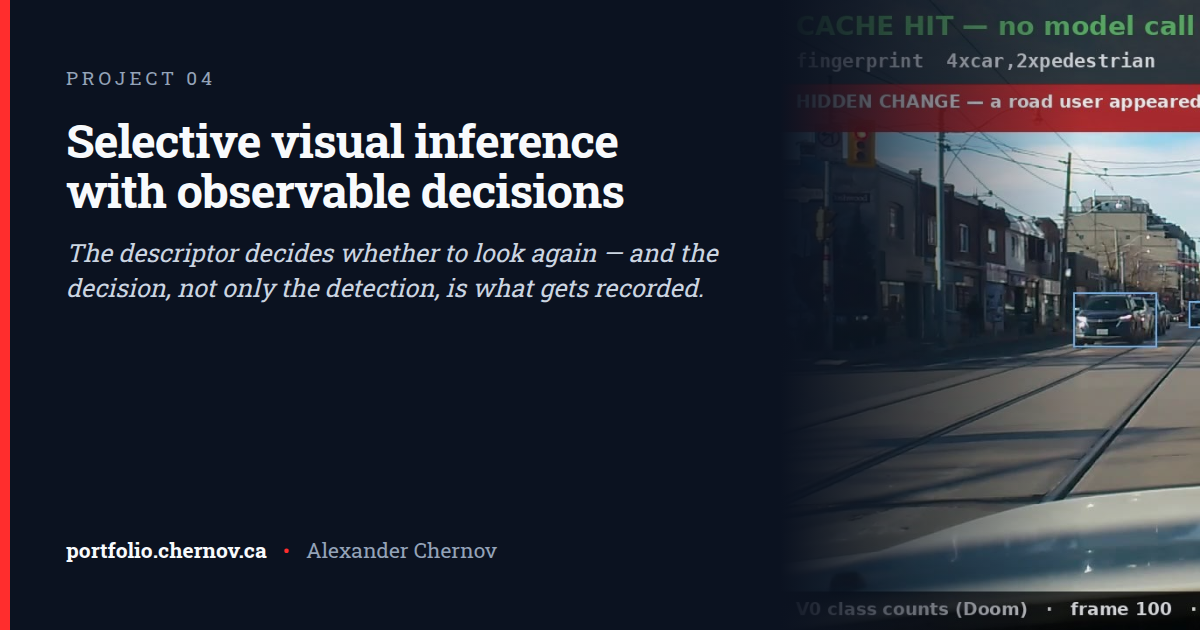
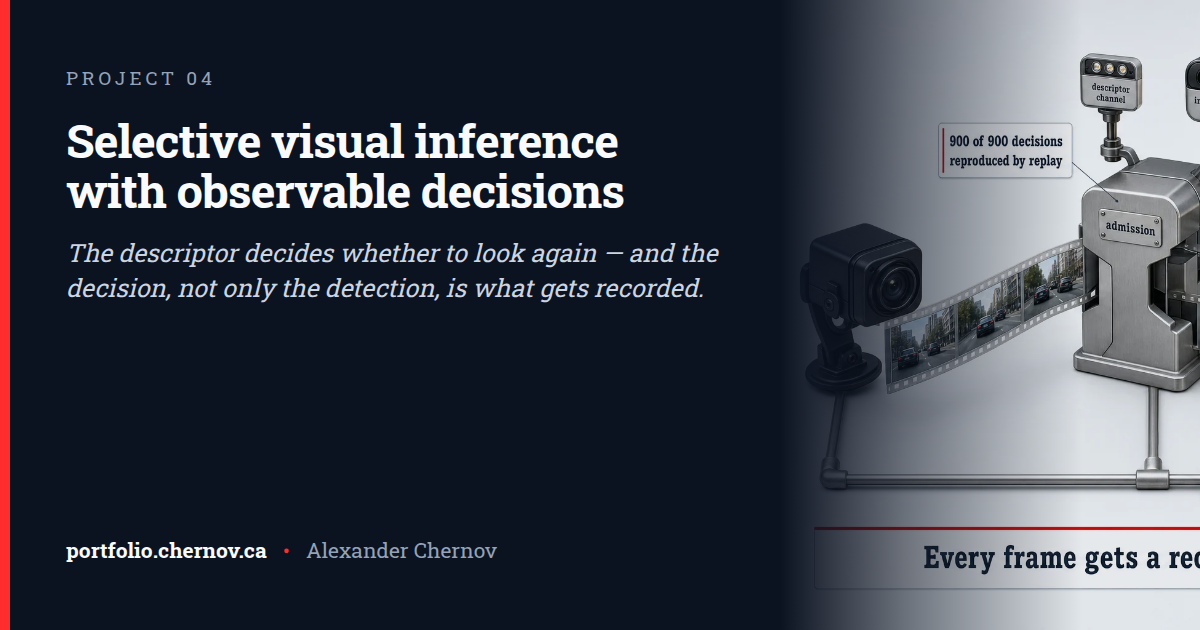
Selective visual inference: real drives on two cars, and the live stack
The entry now carries the comma2k19 result (84 complete drives of two cars:
a content-triggered refresh hides 2.01 points fewer scene changes than a
timer at equal reuse, 3.27 on the held-out chunk) and the live ROS 2 / VSS
stack with what was checked on it. New figure: a rendered illustration of the
stack (gen_agentic_vision.py; one misspelled generated label replaced with
set type by fix_agentic_vision_chip.py). References add comma2k19 and
RT-DETR, both checked against arXiv and Crossref.

Changed region(s): [[0.6783, 0.0, 1.0, 1.0]]

diff --git a/docs/p/selective-visual-inference.html b/docs/p/selective-visual-inference.html
@@ -4,13 +4,13 @@
 <meta charset="utf-8">
 <meta name="viewport" content="width=device-width, initial-scale=1, viewport-fit=cover">
 <title>Selective visual inference with observable decisions — Alexander Chernov</title>
-<meta name="description" content="1,712 consecutive frames of road footage, five per second. Skipping 43.6% of model calls left 28.5% of real scene changes stale; a richer descriptor cut that to 9.1% and bought fewer skips in exchange. A separate detector checks the result, so the thing being measured is not also the judge.">
+<meta name="description" content="Real drives from two cars, 236,130 frames: a content-triggered refresh hid 2.01 points fewer scene changes than a timer at the same share of skipped model calls. The decision layer now also runs live on ROS 2 and the Vehicle Signal Specification, and a recorded live run replays to the same decision ">
 <link rel="canonical" href="https://portfolio.chernov.ca/p/selective-visual-inference.html">
 <link rel="icon" type="image/x-icon" href="../favicon.ico">
 <meta property="og:type" content="article">
 <meta property="og:site_name" content="Alexander Chernov — Portfolio">
 <meta property="og:title" content="Selective visual inference with observable decisions — Alexander Chernov">
-<meta property="og:description" content="1,712 consecutive frames of road footage, five per second. Skipping 43.6% of model calls left 28.5% of real scene changes stale; a richer descriptor cut that to 9.1% and bought fewer skips in exchange. A separate detector checks the result, so the thing being measured is not also the judge.">
+<meta property="og:description" content="Real drives from two cars, 236,130 frames: a content-triggered refresh hid 2.01 points fewer scene changes than a timer at the same share of skipped model calls. The decision layer now also runs live on ROS 2 and the Vehicle Signal Specification, and a recorded live run replays to the same decision ">
 <meta property="og:url" content="https://portfolio.chernov.ca/p/selective-visual-inference.html">
 <meta property="og:image" content="https://portfolio.chernov.ca/og/selective-visual-inference.png">
 <meta property="og:image:width" content="1200">
@@ -18,7 +18,7 @@
 <meta property="og:image:alt" content="Selective visual inference with observable decisions — Alexander Chernov">
 <meta name="twitter:card" content="summary_large_image">
 <meta name="twitter:title" content="Selective visual inference with observable decisions — Alexander Chernov">
-<meta name="twitter:description" content="1,712 consecutive frames of road footage, five per second. Skipping 43.6% of model calls left 28.5% of real scene changes stale; a richer descriptor cut that to 9.1% and bought fewer skips in exchange. A separate detector checks the result, so the thing being measured is not also the judge.">
+<meta name="twitter:description" content="Real drives from two cars, 236,130 frames: a content-triggered refresh hid 2.01 points fewer scene changes than a timer at the same share of skipped model calls. The decision layer now also runs live on ROS 2 and the Vehicle Signal Specification, and a recorded live run replays to the same decision ">
 <meta name="twitter:image" content="https://portfolio.chernov.ca/og/selective-visual-inference.png">
 <script>
 (function(){try{var t=localStorage.getItem('pf-theme');
@@ -202,21 +202,23 @@ footer.bottom p{margin:0 0 .5rem}
 <span class="num">04</span>
 <div class="project-title">
 <h1>Selective visual inference with observable decisions</h1>
-<p class="meta">2025 – present · Independent project, unaffiliated with any employer.</p>
+<p class="meta">2025 – present · Independent research, unaffiliated with any employer.</p>
 </div>
 <button class="copy" type="button" data-copy="../p/selective-visual-inference.html" aria-label="Copy link to Selective visual inference with observable decisions" title="Copy link to Selective visual inference with observable decisions"><span class="copy-icon" aria-hidden="true">#</span><span class="copy-text">Copy link</span></button>
 </div>
 <p class="lede">The descriptor decides whether to look again — and the decision, not only the detection, is what gets recorded.</p>
-<p class="summary">1,712 consecutive frames of road footage, five per second. Skipping 43.6% of model calls left 28.5% of real scene changes stale; a richer descriptor cut that to 9.1% and bought fewer skips in exchange. A separate detector checks the result, so the thing being measured is not also the judge.</p>
-<figure><img src="../img/project-agentic-vision.jpg" alt="The measurement&#x27;s own overlay on a frame of road footage: the descriptor matched, the previous interpretation was reused, no model was called — while the scene developed around a road user at the kerb." loading="lazy" decoding="async">
-<figcaption>The measurement's own overlay on a frame of road footage: the descriptor matched, the previous interpretation was reused, no model was called — while the scene developed around a road user at the kerb.</figcaption>
+<p class="summary">Real drives from two cars, 236,130 frames: a content-triggered refresh hid 2.01 points fewer scene changes than a timer at the same share of skipped model calls. The decision layer now also runs live on ROS 2 and the Vehicle Signal Specification, and a recorded live run replays to the same decision on every frame.</p>
+<figure><img src="../img/project-agentic-vision-stack.webp" alt="The live stack as built, drawn as objects: frames arrive over ROS 2, an admission layer decides for each one whether the gated model runs or an earlier result is reused, an independent detector watches alongside, and every decision goes to a ledger and to a read-only VSS overlay. The three figures on the illustration are measured." loading="lazy" decoding="async">
+<figcaption>The live stack as built, drawn as objects: frames arrive over ROS 2, an admission layer decides for each one whether the gated model runs or an earlier result is reused, an independent detector watches alongside, and every decision goes to a ledger and to a read-only VSS overlay. The three figures on the illustration are measured.</figcaption>
 </figure>
 <p>Vision models are normally run on every frame. That is the safe default and an expensive one. The narrower question is whether a cheap scene descriptor can decide when the previous interpretation still holds, and whether the cost of being wrong about that can be measured rather than assumed.</p>
-<p>Across 1,712 contiguous dashcam frames at 5 Hz, a class-count descriptor skipped 43.6% of candidate model calls and left 28.5% of material scene changes without refreshed perception. Adding spatial and scale information brought the second figure to 9.1%, and cost reuse to do it. The result worth reporting is not a single optimum but that the tradeoff is measurable, which turns scene representation into an explicit engineering parameter rather than an implementation detail.</p>
+<p>The first measurement: across 1,712 contiguous dashcam frames at 5 Hz, a class-count descriptor skipped 43.6% of candidate model calls and left 28.5% of material scene changes without refreshed perception. Adding spatial and scale information brought the second figure to 9.1%, and cost reuse to do it. The result worth reporting is not a single optimum but that the tradeoff is measurable, which turns scene representation into an explicit engineering parameter rather than an implementation detail.</p>
 <p>A second, independent detector evaluates the same frames, so the measurement does not rest on the detector that also defines the state being evaluated. The two disagreed about the presence of vulnerable road users on 9.5% of frames. Neither is ground truth — both are detectors — so that figure is disagreement, not an error rate, and it is reported as such.</p>
-<p>Stated on the site rather than left to be discovered: no vision model is invoked in the measurement itself. The replay determines when a call would occur and what deferring it costs. Nothing here has been validated for use in a vehicle.</p>
+<p>The same measurement then ran at scale on comma2k19, a public set of commuting drives: 94 drives of two cars at 5 Hz, graded by the independent detector. On the 84 drives with complete recordings, refreshing when the content warranted it hid 2.01 percentage points fewer material changes than refreshing on a timer at an equal rate of reuse (95% interval 1.31 to 2.70, resampling whole drives within each car). The analysis was fixed in writing before the last chunk's results existed; on that held-out chunk alone the difference was 3.27 points. The earlier dashcam study reproduces exactly on the new engine, 5,136 of 5,136 decisions.</p>
+<p>The decision layer also runs live, on the interfaces a vehicle integration uses. A recorded drive plays through ROS 2 in real time, a ROS 2 node decides every frame, the gated model runs on a GPU only for the frames sent to it, and a detector of a different family runs alongside as an independent observer. Each decision is published on ROS 2 and as a read-only overlay in the COVESA Vehicle Signal Specification, read over VISS through an Eclipse KUKSA broker. Over three minutes of driving, replaying the node's recorded inputs reproduces its decision on 900 of 900 frames, four runs agree on every frame, and with the model service down for 15 seconds the 75 affected frames report no perception rather than a stale result. From frame arrival to decision takes 86 ms at the median, inside the 200 ms frame period.</p>
+<p>Stated on the site rather than left to be discovered: the replay measurements invoke no vision model; they determine when a call would occur and what deferring it costs. The live stack does call one. Nothing here has been validated for use in a vehicle.</p>
 <p>Transferable principle: a cache that hides a state change is not a performance question but a governance one, and the reuse decision has to be observable before anyone can argue about it.</p>
-<section class="refs" aria-label="References"><h4>References</h4><ol><li>Kang et al. (2017). NoScope: Optimizing neural network queries over video at scale. <span class="venue">Proceedings of the VLDB Endowment 10(11), 1586–1597</span>. <a href="https://doi.org/10.14778/3137628.3137664" target="_blank" rel="noopener noreferrer">doi:10.14778/3137628.3137664</a></li><li>Geifman and El-Yaniv (2017). Selective classification for deep neural networks. <span class="venue">NeurIPS 2017</span>. <a href="https://arxiv.org/abs/1705.08500" target="_blank" rel="noopener noreferrer">arXiv:1705.08500</a></li></ol></section>
+<section class="refs" aria-label="References"><h4>References</h4><ol><li>Kang et al. (2017). NoScope: Optimizing neural network queries over video at scale. <span class="venue">Proceedings of the VLDB Endowment 10(11), 1586–1597</span>. <a href="https://doi.org/10.14778/3137628.3137664" target="_blank" rel="noopener noreferrer">doi:10.14778/3137628.3137664</a></li><li>Geifman and El-Yaniv (2017). Selective classification for deep neural networks. <span class="venue">NeurIPS 2017</span>. <a href="https://arxiv.org/abs/1705.08500" target="_blank" rel="noopener noreferrer">arXiv:1705.08500</a></li><li>Schafer, Santana, Haden and Biasini (2018). A commute in data: The comma2k19 dataset. <span class="venue">arXiv preprint</span>. <a href="https://arxiv.org/abs/1812.05752" target="_blank" rel="noopener noreferrer">arXiv:1812.05752</a></li><li>Zhao et al. (2024). DETRs beat YOLOs on real-time object detection. <span class="venue">IEEE/CVF CVPR 2024, 16965–16974</span>. <a href="https://doi.org/10.1109/CVPR52733.2024.01605" target="_blank" rel="noopener noreferrer">doi:10.1109/CVPR52733.2024.01605</a></li></ol></section>
 <p class="links"><a class="lnk" href="https://vision.agenticdatasets.org" target="_blank" rel="noopener noreferrer">vision.agenticdatasets.org</a></p>
 </div>
 </main>

diff --git a/docs/index.html b/docs/index.html
@@ -270,21 +270,23 @@ footer.bottom p{margin:0 0 .5rem}
 <span class="num">04</span>
 <div class="project-title">
 <h3><a class="self" href="p/selective-visual-inference.html">Selective visual inference with observable decisions</a></h3>
-<p class="meta">2025 – present · Independent project, unaffiliated with any employer.</p>
+<p class="meta">2025 – present · Independent research, unaffiliated with any employer.</p>
 </div>
 <button class="copy" type="button" data-copy="p/selective-visual-inference.html" aria-label="Copy link to Selective visual inference with observable decisions" title="Copy link to Selective visual inference with observable decisions"><span class="copy-icon" aria-hidden="true">#</span><span class="copy-text">Copy link</span></button>
 </div>
 <p class="lede">The descriptor decides whether to look again — and the decision, not only the detection, is what gets recorded.</p>
-<p class="summary">1,712 consecutive frames of road footage, five per second. Skipping 43.6% of model calls left 28.5% of real scene changes stale; a richer descriptor cut that to 9.1% and bought fewer skips in exchange. A separate detector checks the result, so the thing being measured is not also the judge.</p>
-<figure><img src="img/project-agentic-vision.jpg" alt="The measurement&#x27;s own overlay on a frame of road footage: the descriptor matched, the previous interpretation was reused, no model was called — while the scene developed around a road user at the kerb." loading="lazy" decoding="async">
-<figcaption>The measurement's own overlay on a frame of road footage: the descriptor matched, the previous interpretation was reused, no model was called — while the scene developed around a road user at the kerb.</figcaption>
+<p class="summary">Real drives from two cars, 236,130 frames: a content-triggered refresh hid 2.01 points fewer scene changes than a timer at the same share of skipped model calls. The decision layer now also runs live on ROS 2 and the Vehicle Signal Specification, and a recorded live run replays to the same decision on every frame.</p>
+<figure><img src="img/project-agentic-vision-stack.webp" alt="The live stack as built, drawn as objects: frames arrive over ROS 2, an admission layer decides for each one whether the gated model runs or an earlier result is reused, an independent detector watches alongside, and every decision goes to a ledger and to a read-only VSS overlay. The three figures on the illustration are measured." loading="lazy" decoding="async">
+<figcaption>The live stack as built, drawn as objects: frames arrive over ROS 2, an admission layer decides for each one whether the gated model runs or an earlier result is reused, an independent detector watches alongside, and every decision goes to a ledger and to a read-only VSS overlay. The three figures on the illustration are measured.</figcaption>
 </figure>
 <p>Vision models are normally run on every frame. That is the safe default and an expensive one. The narrower question is whether a cheap scene descriptor can decide when the previous interpretation still holds, and whether the cost of being wrong about that can be measured rather than assumed.</p>
-<p>Across 1,712 contiguous dashcam frames at 5 Hz, a class-count descriptor skipped 43.6% of candidate model calls and left 28.5% of material scene changes without refreshed perception. Adding spatial and scale information brought the second figure to 9.1%, and cost reuse to do it. The result worth reporting is not a single optimum but that the tradeoff is measurable, which turns scene representation into an explicit engineering parameter rather than an implementation detail.</p>
+<p>The first measurement: across 1,712 contiguous dashcam frames at 5 Hz, a class-count descriptor skipped 43.6% of candidate model calls and left 28.5% of material scene changes without refreshed perception. Adding spatial and scale information brought the second figure to 9.1%, and cost reuse to do it. The result worth reporting is not a single optimum but that the tradeoff is measurable, which turns scene representation into an explicit engineering parameter rather than an implementation detail.</p>
 <p>A second, independent detector evaluates the same frames, so the measurement does not rest on the detector that also defines the state being evaluated. The two disagreed about the presence of vulnerable road users on 9.5% of frames. Neither is ground truth — both are detectors — so that figure is disagreement, not an error rate, and it is reported as such.</p>
-<p>Stated on the site rather than left to be discovered: no vision model is invoked in the measurement itself. The replay determines when a call would occur and what deferring it costs. Nothing here has been validated for use in a vehicle.</p>
+<p>The same measurement then ran at scale on comma2k19, a public set of commuting drives: 94 drives of two cars at 5 Hz, graded by the independent detector. On the 84 drives with complete recordings, refreshing when the content warranted it hid 2.01 percentage points fewer material changes than refreshing on a timer at an equal rate of reuse (95% interval 1.31 to 2.70, resampling whole drives within each car). The analysis was fixed in writing before the last chunk's results existed; on that held-out chunk alone the difference was 3.27 points. The earlier dashcam study reproduces exactly on the new engine, 5,136 of 5,136 decisions.</p>
+<p>The decision layer also runs live, on the interfaces a vehicle integration uses. A recorded drive plays through ROS 2 in real time, a ROS 2 node decides every frame, the gated model runs on a GPU only for the frames sent to it, and a detector of a different family runs alongside as an independent observer. Each decision is published on ROS 2 and as a read-only overlay in the COVESA Vehicle Signal Specification, read over VISS through an Eclipse KUKSA broker. Over three minutes of driving, replaying the node's recorded inputs reproduces its decision on 900 of 900 frames, four runs agree on every frame, and with the model service down for 15 seconds the 75 affected frames report no perception rather than a stale result. From frame arrival to decision takes 86 ms at the median, inside the 200 ms frame period.</p>
+<p>Stated on the site rather than left to be discovered: the replay measurements invoke no vision model; they determine when a call would occur and what deferring it costs. The live stack does call one. Nothing here has been validated for use in a vehicle.</p>
 <p>Transferable principle: a cache that hides a state change is not a performance question but a governance one, and the reuse decision has to be observable before anyone can argue about it.</p>
-<section class="refs" aria-label="References"><h4>References</h4><ol><li>Kang et al. (2017). NoScope: Optimizing neural network queries over video at scale. <span class="venue">Proceedings of the VLDB Endowment 10(11), 1586–1597</span>. <a href="https://doi.org/10.14778/3137628.3137664" target="_blank" rel="noopener noreferrer">doi:10.14778/3137628.3137664</a></li><li>Geifman and El-Yaniv (2017). Selective classification for deep neural networks. <span class="venue">NeurIPS 2017</span>. <a href="https://arxiv.org/abs/1705.08500" target="_blank" rel="noopener noreferrer">arXiv:1705.08500</a></li></ol></section>
+<section class="refs" aria-label="References"><h4>References</h4><ol><li>Kang et al. (2017). NoScope: Optimizing neural network queries over video at scale. <span class="venue">Proceedings of the VLDB Endowment 10(11), 1586–1597</span>. <a href="https://doi.org/10.14778/3137628.3137664" target="_blank" rel="noopener noreferrer">doi:10.14778/3137628.3137664</a></li><li>Geifman and El-Yaniv (2017). Selective classification for deep neural networks. <span class="venue">NeurIPS 2017</span>. <a href="https://arxiv.org/abs/1705.08500" target="_blank" rel="noopener noreferrer">arXiv:1705.08500</a></li><li>Schafer, Santana, Haden and Biasini (2018). A commute in data: The comma2k19 dataset. <span class="venue">arXiv preprint</span>. <a href="https://arxiv.org/abs/1812.05752" target="_blank" rel="noopener noreferrer">arXiv:1812.05752</a></li><li>Zhao et al. (2024). DETRs beat YOLOs on real-time object detection. <span class="venue">IEEE/CVF CVPR 2024, 16965–16974</span>. <a href="https://doi.org/10.1109/CVPR52733.2024.01605" target="_blank" rel="noopener noreferrer">doi:10.1109/CVPR52733.2024.01605</a></li></ol></section>
 <p class="links"><a class="lnk" href="https://vision.agenticdatasets.org" target="_blank" rel="noopener noreferrer">vision.agenticdatasets.org</a></p>
 </article>
 <article class="project" id="certified-reuse-quantum">

diff --git a/image-prompts/gen_agentic_vision.py b/image-prompts/gen_agentic_vision.py
@@ -1,0 +1,22 @@
+from common import generate
+
+PROMPT = """Create a 3:2 landscape illustration of a live perception stack in which every camera frame receives a recorded decision: run the vision model, reuse the earlier result, or report no perception. It is the architecture of a working system, drawn as physical objects on one pale surface, read left to right.
+
+HERO OBJECTS (rendered, left to right on one pale matte surface):
+1. LEFT: a compact automotive front camera module in matte black with a glass lens, on a small windshield bracket. From it a translucent film strip of five small road-scene frames (a city street with cars, seen from a car) curves to the right, toward the centre.
+2. CENTRE, the largest object: a precision sorting gate in brushed steel, like a laboratory sample sorter, where the film strip enters and leaves along TWO lanes. The UPPER lane runs into a matte dark-grey GPU accelerator card with a heatsink, engraved "gated model". The LOWER lane bypasses the card; the frame on it carries a small white tag reading "earlier result reused". A small engraved plate on the gate reads "admission". The gate is a closed, solid object: draw no internal parts, dials, formulas or rules on it.
+3. ABOVE THE GATE, smaller: two small detector modules watching the film strip. The left one, a small light module, is engraved "descriptor channel"; the right one, a different shape (a rounded module with a second lens), is engraved "independent observer".
+4. RIGHT, upper: a slim rendered car instrument-cluster display panel. On its screen, three short lines in slab serif: "Vehicle.ADAS.AgenticVision", "Decision: REUSE", "PerceptionAge: 800 ms". A small chip beside it reads "VSS overlay, read-only over VISS".
+5. RIGHT, lower: a closed matte strongbox with a stack of white paper records going into a slot on top; a small engraved plate reads "decision ledger".
+6. Along the bottom edge of the surface, under all objects, a thin brushed-steel rail engraved "ROS 2" connects the camera, the gate, the display and the strongbox.
+
+FLOATING ANNOTATION (thin slate leader lines, small white chips, exactly these three chips and no others):
+- chip near the gate, with a thin red accent rule on its left edge, two lines: "900 of 900 decisions" and "reproduced by replay"
+- chip near the GPU card: "model down 15 s: no stale results"
+- chip near the display: "86 ms median per decision"
+
+LOWER BAND (full width, white panel with hairline border and a thin red rule along its top edge): one line of slab-serif text: "Every frame gets a recorded decision. None is a guess."
+
+The red accent appears only on the band's top rule and the one chip's rule. Spell every label exactly as given. Do not draw: any arrow chain between boxes, any flowchart, any formula, threshold, equation or rule text, any steering wheel, speedometer needle, speed value or vehicle signal other than the three display lines given, any person or hand, any vendor or car-maker logo, any robot, any cloud icon, any extra chips, numbers or words beyond those given."""
+
+generate(PROMPT, "agentic-vision-stack.png")

diff --git a/image-prompts/fix_agentic_vision_chip.py b/image-prompts/fix_agentic_vision_chip.py
@@ -1,0 +1,33 @@
+"""Replace the one misspelled label in the generated agentic-vision-stack.png.
+
+gpt-image-2 drew the "VSS overlay, read-only over VISS" chip as a microchip and
+spelled it "oved-only". This paints a white annotation chip, in the other
+chips' style, over exactly that footprint, with the text set in Roboto Slab
+rather than generated, so it cannot be misspelled. Idempotent: it reads the
+generated original and writes the fixed copy beside it.
+"""
+import pathlib
+from PIL import Image, ImageDraw, ImageFilter, ImageFont
+
+HERE = pathlib.Path(__file__).resolve().parent
+SRC = HERE.parent / "image-src" / "agentic-vision-stack.png"
+OUT = HERE.parent / "image-src" / "agentic-vision-stack-fixed.png"
+BOX = (1366, 394, 1512, 512)          # covers the microchip and its pins
+LINES = ["VSS overlay,", "read-only", "over VISS"]
+
+im = Image.open(SRC).convert("RGBA")
+shadow = Image.new("RGBA", im.size, (0, 0, 0, 0))
+ImageDraw.Draw(shadow).rounded_rectangle((BOX[0] + 2, BOX[1] + 5, BOX[2] + 2, BOX[3] + 5), 8, fill=(15, 23, 42, 60))
+im = Image.alpha_composite(im, shadow.filter(ImageFilter.GaussianBlur(6)))
+d = ImageDraw.Draw(im)
+d.rounded_rectangle(BOX, 8, fill=(255, 255, 255, 255), outline=(203, 213, 225, 255), width=2)
+font = ImageFont.truetype(str(HERE / "fonts" / "RobotoSlab-Bold.ttf"), 20)
+heights = [font.getbbox(t)[3] - font.getbbox(t)[1] for t in LINES]
+gap = 10
+y = BOX[1] + ((BOX[3] - BOX[1]) - (sum(heights) + gap * (len(LINES) - 1))) // 2
+for t, h in zip(LINES, heights):
+    w = font.getlength(t)
+    d.text(((BOX[0] + BOX[2] - w) / 2, y - font.getbbox(t)[1]), t, font=font, fill=(15, 23, 42, 255))
+    y += h + gap
+im.convert("RGB").save(OUT)
+print("wrote", OUT)
